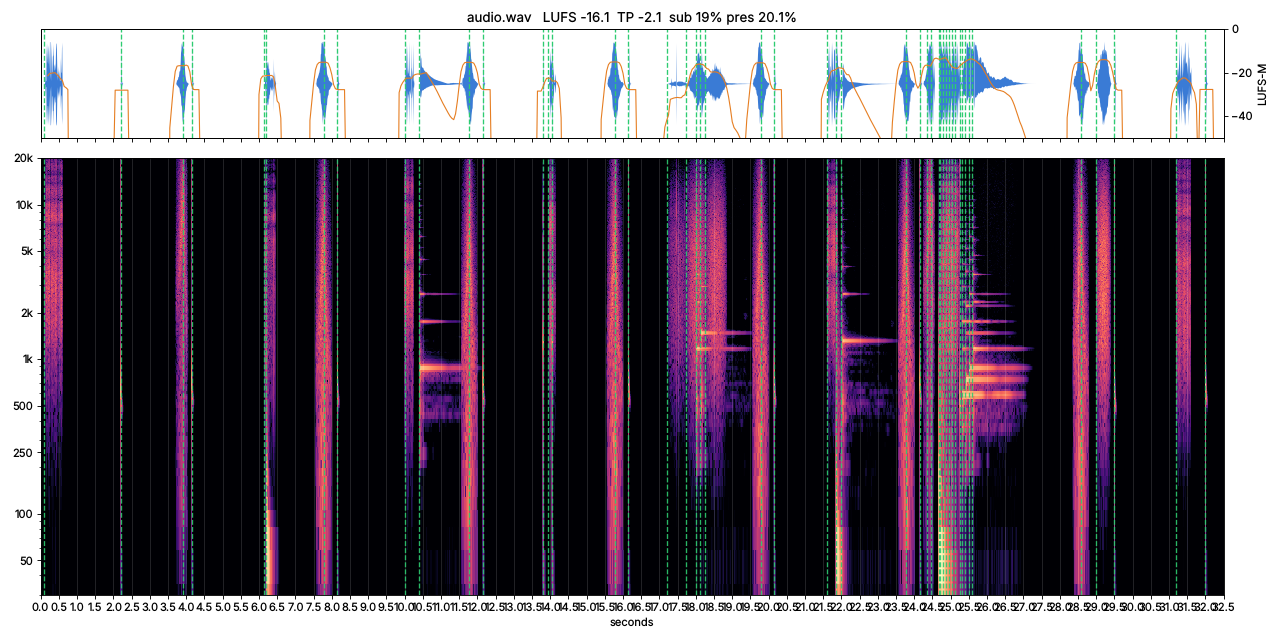
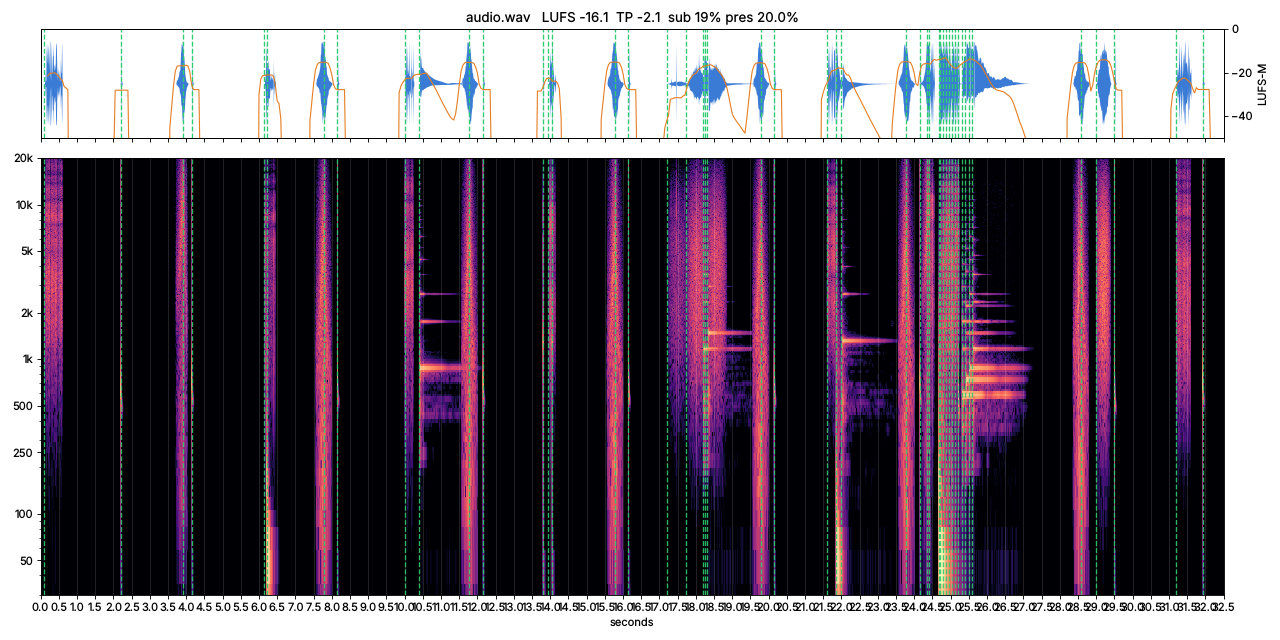
Where your dog sleeps: rendered, reviewed, revised once (v2 delivered)
Reviewer v1 scores: style 7, concept 6, motion 5, design 6, finish 7, sound 6, technical 7.
v2 applies all six high fixes: safe zones, hero head-pop mask, opaque pop-outs
instead of ghost fades, a bigger hero beat (push-in, crouch, impact frames),
caption reading pace, and a picture event for the 6.2 thump.
v2: 32.5 s, 1080x1920, 24 fps, -16.1 LUFS, -2.1 dBTP.

Claude-Session: https://claude.ai/code/session_01TyScPHrqvU1DzKTx1jcmtf

diff --git a/films/2026-10-13-where-your-dog-sleeps/js/scene.js b/films/2026-10-13-where-your-dog-sleeps/js/scene.js
@@ -31,7 +31,8 @@ const setStep = (a, b, s) => { for (let f = Math.round(a * FPS); f < Math.min(NF
 setStep(4.0, 4.25, 1);                                  // punch-in
 for (const b of WHIPS) setStep(b - WH, b + WH, 1);      // whips
 setStep(24.4, 25.45, 1);                                // the dive and the pop-out
-setStep(21.6, 21.9, 1);                                 // the shuffle back
+setStep(21.6, 21.9, 1);
+setStep(6.1, 6.45, 1);                                  // the ear twitch and settle squash                                 // the shuffle back
 setStep(29.4, 31.2, 3);                                 // the question holds
 const FQ = new Int32Array(NF), ID = new Int32Array(NF);
 { let last = 0, id = 0; for (let f = 0; f < NF; f++) { if (f > 0 && (STEP[f] !== STEP[f - 1] || f - last >= STEP[f])) { last = f; id++; } FQ[f] = last; ID[f] = id; } }
@@ -48,26 +49,28 @@ export async function init(canvas, dpr) {
 const md = (s) => { let b = false; return s.split(' ').map((w) => { const st = w.startsWith('**'); if (st) b = true; const ww = w.replace(/\*\*/g, ''); const o = { w: ww, b }; if (w.endsWith('**') || (st && w.slice(2).includes('**'))) b = false; return o; }); };
 const CAPS = [
   [2.2, 4.0, 'Six spots. The best is **last.**'],
-  [4.2, 6.1, 'It can mean you\'re **family.**'],
-  [6.1, 7.9, 'Puppies pile up for **warmth and safety.**'],
+  [4.2, 5.8, 'It can mean you\'re **family.**'],
+  [5.8, 7.9, 'Puppies pile up for **warmth and safety.**'],
   [8.2, 10.1, 'Close to you...'],
   [10.1, 11.9, '...but **watching the room.**'],
   [12.2, 14.1, 'Often a dog on **guard duty.**'],
   [14.1, 15.9, 'They see themselves as your **protector.**'],
   [16.2, 18.1, 'Your **scent** comforts them...'],
   [18.1, 19.9, '...especially when **you\'re out.**'],
-  [20.2, 22.1, 'It can mean **"I\'ve got your back."**'],
-  [22.1, 23.9, 'It\'s a sign of **deep trust.**'],
+  [20.15, 22.2, 'It can mean **"I\'ve got your back."**'],
+  [22.2, 23.9, 'It\'s a sign of **deep trust.**'],
   [24.2, 25.9, 'And the sweetest spot...'],
   [25.9, 28.7, 'Against you? You\'re their **safe place.**'],
 ].map(([a, b, s]) => [a, b, md(s)]);
-const CAP_Y = 1440;
+const CAP_Y = 1440, CAP_X = 500; // x 500: cards stay left of the platform's right-hand buttons (x > 940)
 const popK = (t, t0, d = 0.35) => (t < t0 ? 0 : G.K(t, [[t0, 0], [t0 + d * 0.6, 1.14, 'out3'], [t0 + d, 1.0]]));
+// opaque pop-out on 1s (no half-transparent ghost): 1 → 1.06 → 0 over the last 3 frames before t1
+const popOut = (t, t1) => (t < t1 - 0.125 ? 1 : G.K(t, [[t1 - 0.125, 1], [t1 - 0.08, 1.06], [t1, 0]]));
 
 // the hook headline (frame 0 = the cover; it returns at the end so the loop is seamless)
-function headline(c, a, dy, v) {
-  if (a <= 0) return;
-  c.save(); c.globalAlpha = a; c.textAlign = 'center'; c.textBaseline = 'alphabetic';
+function headline(c, a, dy, v, sc = 1) {
+  if (a <= 0 || sc <= 0) return;
+  c.save(); c.globalAlpha = a; c.translate(540, 500); c.scale(sc, sc); c.translate(-540, -500); c.textAlign = 'center'; c.textBaseline = 'alphabetic';
   let size = 92;
   c.font = `600 ${size}px "Fraunces"`;
   const w1 = c.measureText('Where your dog sleeps').width;
@@ -83,39 +86,39 @@ function headline(c, a, dy, v) {
   inkStroke(c, [[x0 + wA, 450 + size * 1.1 + dy + 22], [x0 + wA + wB * 0.5, 450 + size * 1.1 + dy + 28], [x0 + wA + wB, 450 + size * 1.1 + dy + 20]], { seed: 31 + v, w: 7, t0: 6, t1: 10, min: 0.3, amp: 1, heavy: 0, color: PAL.orange });
   c.restore();
 }
-function headlineState(t) { // alpha, dy
-  if (t < 2.2) return [1, 0];
-  if (t < 2.45) { const u = E.in2(inv(2.2, 2.45, t)); return [1 - u, -40 * u]; }
-  if (t >= 32.0) { const u = E.out3(inv(32.0, 32.3, t)); return [u, 30 * (1 - u)]; }
-  return [0, 0];
+function headlineState(t) { // alpha, dy, scale: always opaque, it pops out and back in
+  if (t < 2.0) return [1, 0, 1];
+  if (t < 2.2) { const u = inv(2.0, 2.2, t); return [1, -30 * u, G.K(t, [[2.0, 1], [2.07, 1.05], [2.2, 0]])]; }
+  if (t >= 31.92) return [1, 0, G.K(t, [[31.92, 0.82], [32.02, 1.04, 'out3'], [32.1, 1]])];
+  return [0, 0, 0];
 }
 function questionCard(c, t, v) {
-  if (t < 29.0 || t >= 31.9) return;
-  const sIn = G.K(t, [[29.0, 0.82], [29.12, 1.05, 'out3'], [29.22, 1]]), out = clamp((31.9 - t) / 0.2);
-  c.save(); c.globalAlpha = out; c.translate(540, 520); c.scale(sIn * (1 - 0.1 * (1 - out)), sIn * (1 - 0.1 * (1 - out))); c.translate(-540, -520);
-  const P = G.resample(CA.roundRect(110, 360, 860, 330, 36), 6, true);
+  if (t < 29.0 || t >= 31.92) return;
+  const sIn = G.K(t, [[29.0, 0.82], [29.12, 1.05, 'out3'], [29.22, 1]]) * popOut(t, 31.92), out = 1, QX = 500;
+  c.save(); c.translate(QX, 520); c.scale(sIn, sIn); c.translate(-QX, -520);
+  const P = G.resample(CA.roundRect(90, 360, 820, 330, 36), 6, true);
   fillShape(c, P.map(([a, b]) => [a + 8, b + 10]), 'rgba(27,47,82,0.3)', { seed: 40 + v, amp: 1.4 });
   fillShape(c, P, PAL.hi, { seed: 41 + v, amp: 1.6 }); inkLoop(c, P, { seed: 42 + v, w: 4, amp: 1.6 });
   c.textAlign = 'left'; c.textBaseline = 'alphabetic';
-  c.font = '600 80px "Fraunces"'; const a1 = 'Where does ', a3 = ' sleep?';
-  const w1 = c.measureText(a1).width, w3 = c.measureText(a3).width; c.font = 'italic 600 80px "Fraunces"'; const w2 = c.measureText('yours').width;
-  const x0 = 540 - (w1 + w2 + w3) / 2;
-  c.font = '600 80px "Fraunces"'; c.fillStyle = PAL.navy; c.fillText(a1, x0, 520); c.fillText(a3, x0 + w1 + w2, 520);
-  c.font = 'italic 600 80px "Fraunces"'; c.fillStyle = PAL.orange; c.fillText('yours', x0 + w1, 520);
+  c.font = '600 72px "Fraunces"'; const a1 = 'Where does ', a3 = ' sleep?';
+  const w1 = c.measureText(a1).width, w3 = c.measureText(a3).width; c.font = 'italic 600 72px "Fraunces"'; const w2 = c.measureText('yours').width;
+  const x0 = QX - (w1 + w2 + w3) / 2;
+  c.font = '600 72px "Fraunces"'; c.fillStyle = PAL.navy; c.fillText(a1, x0, 520); c.fillText(a3, x0 + w1 + w2, 520);
+  c.font = 'italic 600 72px "Fraunces"'; c.fillStyle = PAL.orange; c.fillText('yours', x0 + w1, 520);
   const u = clamp((t - 29.5) / 0.25);
-  if (u > 0) { c.globalAlpha = out * u; c.font = '600 50px "Inter"'; c.fillStyle = PAL.navy; c.textAlign = 'center'; c.fillText('Tell us below.', 540, 615 + 10 * (1 - u)); }
+  if (u > 0) { c.globalAlpha = out * u; c.font = '600 50px "Inter"'; c.fillStyle = PAL.navy; c.textAlign = 'center'; c.fillText('Tell us below.', QX, 615 + 10 * (1 - u)); }
   c.restore();
 }
 function overlays(c, t, v) {
-  CA.pill(c, 'DOG DECODED', 540, 214, { size: 28, fill: PAL.navy, color: PAL.hi, edge: PAL.navyDeep, alpha: 0.92, seed: 11, shadow: false }, v);
+  CA.pill(c, 'DOG DECODED', 540, 252, { size: 28, fill: PAL.navy, color: PAL.hi, edge: PAL.navyDeep, alpha: 0.92, seed: 11, shadow: false }, v);
   for (const [a, b, txt] of SP) {
     const t0 = a + 0.15, t1 = b - WH - 0.02;
     if (t < t0 || t >= t1) continue;
-    CA.pill(c, txt, 540, 320, { size: 40, fill: PAL.orange, color: PAL.hi, scale: popK(t, t0), alpha: clamp((t1 - t) / 0.12), seed: 21, rot: -0.02 }, v);
+    CA.pill(c, txt, 540, 330, { size: 40, fill: PAL.orange, color: PAL.hi, scale: popK(t, t0) * popOut(t, t1), seed: 21, rot: -0.02 }, v);
   }
-  const [ha, hdy] = headlineState(t); headline(c, ha, hdy, v);
+  const [ha, hdy, hsc] = headlineState(t); headline(c, ha, hdy, v, hsc);
   questionCard(c, t, v);
-  CAPS.forEach(([a, b, words], i) => CA.caption(c, words, 540, CAP_Y, t, a, b, v, { cont: i > 0 && CAPS[i - 1][1] === a, hold: i < CAPS.length - 1 && CAPS[i + 1][0] === b }));
+  CAPS.forEach(([a, b, words], i) => CA.caption(c, words, CAP_X, CAP_Y, t, a, b, v, { cont: i > 0 && CAPS[i - 1][1] === a, hold: i < CAPS.length - 1 && CAPS[i + 1][0] === b }));
 }
 
 // ------------------------------------------------------------------ room props (a few lines each)
@@ -227,11 +230,17 @@ function shotBed(c, t, f, D) {
   bed(c, v, tq);
   // breathing, a tail thump at 6.1, a yawn at the end (31.2–31.9)
   const yawn = sstep(31.2, 31.45, tq) * (1 - sstep(31.7, 31.95, tq));
-  const thump = tq >= 6.1 && tq < 6.6 ? Math.sin(Math.PI * inv(6.1, 6.6, tq)) : 0;
-  const P = pose('curl', { tail: { a0: 170 + 12 * thump, curl: -16 }, head: { pitch: -20 + 26 * yawn, yaw: -90 + 20 * yawn, roll: 0 },
-    face: { eyes: yawn > 0.3 ? 'squint' : 'closed', mouth: yawn > 0.4 ? 'open' : 'closed', brow: 0 }, ears: { swing: 8 * yawn } });
+  const twitch = tq >= 6.1 && tq < 6.45 ? Math.sin(Math.PI * inv(6.1, 6.45, tq)) : 0, F_SQ = Math.round(6.2 * FPS);
+  const P = pose('curl', { tail: { a0: 170, curl: -16 }, head: { pitch: -20 + 26 * yawn, yaw: -90 + 20 * yawn, roll: 0 },
+    face: { eyes: yawn > 0.3 ? 'squint' : 'closed', mouth: yawn > 0.4 ? 'open' : 'closed', brow: 0 }, ears: { swing: 8 * yawn - 14 * twitch } });
   const br = 1 + 0.012 * Math.sin(tq * 2.6);
+  const sq = D.fq === F_SQ ? 1.05 : 1; // she settles: a 1-frame squash on the thump
+  c.save(); c.translate(CURL.x, CURL.y); c.scale(sq, 1 / sq); c.translate(-CURL.x, -CURL.y);
   drawMiya(c, P, { ...CURL, s: CURL.s * br, v, seed: 3000, accent: ACC });
+  c.restore();
+  if (tq >= 6.2 && tq < 6.7) { const u = inv(6.2, 6.7, tq); // a small dust puff off the duvet where she settles
+    for (let k = 0; k < 3; k++) { const P2 = circlePts(CURL.x + 150 + k * 26 + 40 * u, CURL.y - 30 - k * 14 - 26 * u, (15 - 3 * k) * (1 - 0.6 * u), 14);
+      c.save(); c.globalAlpha = 1 - u; fillShape(c, P2, PAL.hi, { seed: 150 + k, amp: 1 }); inkLoop(c, P2, { seed: 153 + k + v, w: 3, amp: 1 }); c.restore(); } }
   if (tq < 31.0 || tq > 32.0) zzz(c, 800, 830, tq, tq >= 4 && tq < 29 ? 4.2 : 99, v);
   c.restore();
 }
@@ -319,46 +328,55 @@ const TUCK = { x: 470, y: 1012, s: 1.4, view: 10 };
 function shotTuck(c, t, f, D) {
   const v = bv(D), tq = D.fq / FPS;
   drawPaper(c, W, H);
-  const z = lerp(1, 1.42, E.io2(inv(25.5, 28.8, tq))), shake = tq >= DIVE + 0.08 && tq < DIVE + 0.5 ? 10 * Math.exp(-(tq - DIVE - 0.08) / 0.12) : 0;
-  c.save(); cam(c, lerp(540, 650, E.io2(inv(25.5, 28.8, tq))) + (hs(f, 1) - 0.5) * 2 * shake, lerp(960, 930, E.io2(inv(25.5, 28.8, tq))) + (hs(f, 2) - 0.5) * 2 * shake, z);
+  const z = lerp(1.15, 1.55, E.io2(inv(24.2, 28.8, tq))), shake = tq >= DIVE + 0.08 && tq < DIVE + 0.5 ? 10 * Math.exp(-(tq - DIVE - 0.08) / 0.12) : 0;
+  c.save(); cam(c, lerp(640, 650, E.io2(inv(24.2, 28.8, tq))) + (hs(f, 1) - 0.5) * 2 * shake, lerp(960, 930, E.io2(inv(25.5, 28.8, tq))) + (hs(f, 2) - 0.5) * 2 * shake, z);
   windowNight(c, 420, 560, 220, 270, v, tq);
   floor(c, v);
   const fdive = Math.round(DIVE * FPS);
   // the hump under the duvet: lands at 24.67, travels to her spot by 25.2, then stays as her body
   const land = (fdive + 2) / FPS, under = tq >= land && tq < 25.25;
-  const bump = under ? { x: lerp(820, 470, E.io2(inv(land, 25.2, tq))), h: 60 * (tq < land + 0.08 ? 1.3 : 1) + 8 * Math.sin(tq * 30) } : tq >= 25.2 ? { x: 450, h: 34 + 3 * Math.sin(tq * 2.6) } : null;
-  bed(c, v, tq, { person: true, bump });
+  const bump = under ? { x: lerp(740, 470, E.io2(inv(land, 25.2, tq))), h: 60 * (tq < land + 0.08 ? 1.3 : 1) + 8 * Math.sin(tq * 30) } : tq >= 25.2 ? { x: 450, h: 34 + 3 * Math.sin(tq * 2.6) } : null;
+  const topB = bed(c, v, tq, { person: true, bump });
   if (tq < DIVE) { // standing on the bed by your feet, then a crouch (anticipation)
-    const cr = E.io2(inv(24.3, DIVE, tq));
-    const P = pose('stand', { head: { pitch: -10 - 20 * cr, yaw: 10, roll: 0 }, face: { eyes: 'open', mouth: 'smile', brow: 0.4 }, tail: { a0: 100 + 30 * Math.sin(tq * 12), curl: -30 } });
-    c.save(); c.translate(880, 975); c.scale(1 + 0.06 * cr, 1 - 0.1 * cr); c.translate(-880, -975);
-    drawMiya(c, P, { x: 880, y: 975, s: 1.25, view: 20, mirror: true, v, seed: 3500, accent: ACC });
+    const cr = E.io2(inv(24.3, DIVE - 1 / FPS, tq)), rel = f === fdive - 1; // deep crouch, then a 1-frame stretch as she springs
+    const P = pose('stand', { head: { pitch: -10 - 35 * cr, yaw: 10, roll: 0 }, face: { eyes: 'open', mouth: 'smile', brow: 0.4 }, tail: { a0: 100 + 30 * Math.sin(tq * 12), curl: -30 } });
+    c.save(); c.translate(790, 975); if (rel) c.scale(0.9, 1.15); else c.scale(1 + 0.12 * cr, 1 - 0.22 * cr); c.translate(-790, -975);
+    drawMiya(c, P, { x: 790, y: 975, s: 1.25, view: 20, mirror: true, v, seed: 3500, accent: ACC });
     c.restore();
   } else if (f < fdive + 2) { // the dive, on 1s: one smear frame stretched 2.6× along the path, then she's gone
     const dir = Math.atan2(40, -120), k = f - fdive;
-    c.save(); c.translate(lerp(860, 780, k), lerp(900, 960, k)); c.rotate(dir); c.scale(k === 0 ? 2.6 : 1.8, 0.6); c.rotate(-dir); c.translate(-860, -900);
-    drawMiya(c, pose('stand', { face: { eyes: 'closed', mouth: 'closed', brow: 0 } }), { x: 860, y: 960, s: 1.15, view: 0, mirror: true, v, seed: 3510, accent: ACC, shadow: false });
+    c.save(); c.translate(lerp(770, 690, k), lerp(900, 960, k)); c.rotate(dir); c.scale(k === 0 ? 2.6 : 1.8, 0.6); c.rotate(-dir); c.translate(-770, -900);
+    drawMiya(c, pose('stand', { face: { eyes: 'closed', mouth: 'closed', brow: 0 } }), { x: 770, y: 960, s: 1.15, view: 0, mirror: true, v, seed: 3510, accent: ACC, shadow: false });
     c.restore();
-    for (let i = 0; i < 4; i++) inkStroke(c, [[930 + i * 10, 860 - i * 22], [1010 + i * 16, 830 - i * 30]], { seed: 520 + i + f, w: 4, t0: 20, t1: 4, min: 0.1, amp: 0.8, heavy: 0 });
+    for (let i = 0; i < 4; i++) inkStroke(c, [[840 + i * 10, 860 - i * 22], [920 + i * 16, 830 - i * 30]], { seed: 520 + i + f, w: 4, t0: 20, t1: 4, min: 0.1, amp: 0.8, heavy: 0 });
   }
   if (tq >= land && tq < land + 0.6) { // the duvet flops: dust puffs and twinkles burst off it
     const u = inv(land, land + 0.6, tq);
     for (let k = 0; k < 6; k++) {
-      const a = -Math.PI + k * (Math.PI / 5), d = 60 + 140 * E.out2(u), P2 = circlePts(820 + Math.cos(a) * d, 920 + Math.sin(a) * d * 0.6 - 30 * u, (22 - 2 * k % 3 * 3) * (1 - 0.7 * u), 14);
+      const a = -Math.PI + k * (Math.PI / 5), d = 60 + 140 * E.out2(u), P2 = circlePts(740 + Math.cos(a) * d, 920 + Math.sin(a) * d * 0.6 - 30 * u, (22 - 2 * k % 3 * 3) * (1 - 0.7 * u), 14);
       c.save(); c.globalAlpha = 1 - u; fillShape(c, P2, PAL.hi, { seed: 530 + k, amp: 1 }); inkLoop(c, P2, { seed: 536 + k + v, w: 3.2, amp: 1 }); c.restore();
     }
-    if (u < 0.3) FX.drawStarburst(c, 820, 900, 120 * (1 - u), 545 + f, 0.4, [PAL.hi, PAL.hi, PAL.orange], { n: 10, w: 5 });
+    if (u < 0.3) FX.drawStarburst(c, 740, 900, 120 * (1 - u), 545 + f, 0.4, [PAL.hi, PAL.hi, PAL.orange], { n: 10, w: 5 });
   }
   if (tq >= 25.2) { // her head pops out at the duvet edge, tucked against your legs; the duvet covers her body
-    const pop = E.outBack(clamp((tq - 25.2) / 0.25), 1.8);
+    const pop = E.outBack(clamp((tq - 25.2) / 0.25), 2.6), CX = 640, CY = 975; // pivot: her chin at the duvet edge
     const P = pose('sleep', { head: { pitch: -6, yaw: 18, roll: -6 }, face: { eyes: tq >= 25.9 ? 'closed' : 'happy', mouth: 'smile', brow: 0.3 }, ears: { swing: 4 * Math.sin(tq * 2) } });
-    c.save(); c.beginPath(); c.rect(588, 0, 2000, 2000); c.clip(); // only her head and paws show past the duvet's edge
-    c.translate(TUCK.x + 160, TUCK.y); c.scale(pop, pop); c.translate(-TUCK.x - 160, -TUCK.y);
+    c.save(); c.translate(CX, CY); c.scale(pop, pop); c.translate(-CX, -CY);
     drawMiya(c, P, { ...TUCK, s: TUCK.s * (1 + 0.01 * Math.sin(tq * 2.6)), v, seed: 3520, accent: ACC, shadow: false });
+    c.restore();
+    // the duvet over her body: the same bed redrawn left of her neck, so its own top line hides her (no straight mask edge)
+    c.save(); c.beginPath(); c.rect(-2000, -2000, 2588, 6000); c.clip();
+    bed(c, v, tq, { person: true, bump });
     c.restore();
     // the duvet's folded edge over her neck
     const flap = R(spline([[548, 915], [590, 890], [618, 906], [624, 955], [604, 996], [560, 992]], true, 4));
+    c.save(); c.translate(CX, CY); c.scale(Math.max(pop, 0.6), Math.max(pop, 0.6)); c.translate(-CX, -CY);
     CA.celMass(c, flap, LIL, LILS, 560, v, { w: 5, sh: 8 });
+    c.restore();
+    if (tq < 25.7) { const u = inv(25.2, 25.7, tq); // a puff and twinkles as her head pops out
+      for (let k = 0; k < 4; k++) { const a = -0.9 + k * 0.45, d = 120 + 80 * E.out2(u), P2 = circlePts(CX + 40 + Math.cos(a) * d, CY - 10 + Math.sin(a) * d * 0.6, (16 - 2 * k) * (1 - 0.6 * u), 14);
+        c.save(); c.globalAlpha = 1 - u; fillShape(c, P2, PAL.hi, { seed: 580 + k, amp: 1 }); inkLoop(c, P2, { seed: 584 + k + v, w: 3, amp: 1 }); c.restore(); }
+      FX.drawTwinkle(c, CX + 70, CY - 150, 18 * Math.sin(Math.PI * u), 590 + v, { fill: PAL.orange }); FX.drawTwinkle(c, CX - 80, CY - 120, 12 * Math.sin(Math.PI * u), 591 + v, { fill: PAL.hi }); }
     zzz(c, 760, 820, tq, 26.0, v, PAL.navyLight);
     if (tq >= 26.0) { FX.drawTwinkle(c, 760, 880, 13 + 4 * Math.sin(tq * 4), 570 + v, { fill: PAL.hi }); FX.drawTwinkle(c, 520, 820, 10 + 3 * Math.sin(tq * 3 + 1), 571 + v, { fill: PAL.hi }); }
   }
@@ -396,6 +414,11 @@ export function render(t) {
     c.save(); c.setTransform(1, 0, 0, 1, 0, 0); c.translate((W / 2 + dx) * DPR, 0); c.scale(sx, 1); c.drawImage(L.canvas, -W / 2 * DPR, 0); c.restore();
     for (let i = 0; i < 9; i++) { const y = 360 + i * 120 + hs(i, f) * 40, x0 = hs(i, f, 2) * 500; inkStroke(c, [[x0, y], [x0 + 420 + 200 * hs(i, 3), y + 6]], { seed: 900 + i + f, w: 5, t0: 30, t1: 30, min: 0.1, amp: 0.6, heavy: 0 }); }
   } else shotAt(t1)(c, t1, f, D);
+  const fImp = Math.round(DIVE * FPS) + 2;
+  if (f === fImp || f === fImp + 1) { // impact: flat lilac + a white star, on 1s; nothing else on it
+    FX.impactFrame(c, W, H, 560, 920, f === fImp ? LIL : PAL.navy, f === fImp ? PAL.hi : LIL, 600 + f, { lines: f === fImp, R: 560 });
+    drawTooth(c, W, H, v, DPR, 0.13); return;
+  }
   overlays(c, t1, v);
   drawTooth(c, W, H, v, DPR, 0.13);
 }

diff --git a/films/2026-10-13-where-your-dog-sleeps/js/cast.js b/films/2026-10-13-where-your-dog-sleeps/js/cast.js
@@ -61,7 +61,7 @@ export function pill(c, text, x, y, o, v) {
 // o.hold: the next caption starts where this one ends, so the card doesn't pop out.
 export function caption(c, words, x, y, t, tIn, tOut, v, o = {}) {
   if (t < tIn || t >= tOut) return;
-  const size = 50, lh = 70, maxW = 860;
+  const size = 50, lh = 70, maxW = 740;
   c.save(); c.font = `600 ${size}px "Inter"`;
   const sp = c.measureText(' ').width;
   const lines = [[]]; let lw = 0;
@@ -72,10 +72,11 @@ export function caption(c, words, x, y, t, tIn, tOut, v, o = {}) {
     lines[lines.length - 1].push({ ...wd, width: w }); lw += w + sp;
   }
   c.restore();
-  const boxW = Math.min(940, Math.max(...lines.map((L) => L.reduce((a, q) => a + q.width + sp, -sp))) + 70), boxH = lines.length * lh + 46;
+  const boxW = Math.min(810, Math.max(...lines.map((L) => L.reduce((a, q) => a + q.width + sp, -sp))) + 70), boxH = lines.length * lh + 46;
   const sIn = o.cont ? 1 : K(t, [[tIn, 0.82], [tIn + 0.1, 1.04, 'out3'], [tIn + 0.18, 1]]);
-  const outU = o.hold ? 0 : clamp((t - (tOut - 0.12)) / 0.12);
-  const sc = sIn * (1 - 0.12 * outU), fade = 1 - outU;
+  // out: an opaque pop-out on 1s (1 → 1.06 → 0 over 3 frames), never a half-transparent ghost card
+  const sOut = o.hold || t < tOut - 0.125 ? 1 : K(t, [[tOut - 0.125, 1], [tOut - 0.08, 1.06], [tOut, 0]]);
+  const sc = sIn * sOut, fade = 1;
   c.save(); c.globalAlpha = fade; c.translate(x, y); c.scale(sc, sc); c.translate(-x, -y);
   const P = G.resample(roundRect(x - boxW / 2, y - boxH / 2, boxW, boxH, 28), 6, true);
   fillShape(c, P.map(([a, b]) => [a + 6, b + 8]), 'rgba(27,47,82,0.3)', { seed: 300 + v, amp: 1.2 });

diff --git a/films/2026-10-13-where-your-dog-sleeps/audio.py b/films/2026-10-13-where-your-dog-sleeps/audio.py
@@ -40,7 +40,7 @@ S(sfx.whoosh(0.35, 'swish', peak=0.6), at=3.92, gain=-9)
 for b in (8.0, 12.0, 16.0, 20.0, 24.0, 28.8):
     S(sfx.whoosh(0.45, 'air', peak=0.5), at=b - 0.22, gain=-7)
 # 1 on your bed: the tail thump
-S(sfx.impact('soft', size=0.25), at=6.2, gain=-14)
+S(sfx.impact('soft', size=0.25), at=6.208, gain=-14)   # the settle squash (frame 149)
 S(sfx.paper('rustle', 0.3, seed=3), at=6.15, gain=-15)
 # 2 foot of the bed: she turns to watch the room
 S(sfx.paper('rustle', 0.25, seed=5), at=10.0, gain=-14)
@@ -52,26 +52,26 @@ S(sfx.paper('rustle', 0.2, seed=7), at=13.95, gain=-14)
 # 4 on your clothes: scent drifting up, a contented smile
 for k in range(3):
     S(sfx.paper('slide', 0.6, seed=9 + k), at=17.2 + k * 0.53, gain=-19)
-harp('D6', 18.0, -15); harp('F#6', 18.12, -16)
+harp('D6', 18.2, -15); harp('F#6', 18.32, -16)
 # 5 back against you: the shuffle, the squish, two twinkles
 S(sfx.paper('rustle', 0.3, seed=11), at=21.6, gain=-11)
 S(sfx.impact('soft', size=0.3), at=21.85, gain=-12)
 harp('E6', 22.0, -15)
 # 6 tucked against you (hero): the crouch, the dive, the duvet flop, travelling under, the pop out
 S(sfx.paper('rustle', 0.2, seed=13), at=24.35, gain=-14)
-S(sfx.whoosh(0.3, 'swish', peak=0.7), at=24.45, gain=-6)
+S(sfx.whoosh(0.3, 'swish', peak=0.7), at=24.40, gain=-6)
 S(sfx.impact('soft', size=0.7), at=24.67, gain=-4)
 S(sfx.paper('crumple', 0.5, seed=14), at=24.7, gain=-10)
 for k in range(5):
     S(sfx.paper('rustle', 0.12, seed=20 + k), at=24.8 + k * 0.08, gain=-13)
-S(sfx.pop('soft', 0.9), at=25.25, gain=-8)
+S(sfx.pop('soft', 0.9), at=25.21, gain=-8)
 for j, x in enumerate(['D5', 'F#5', 'A5', 'D6']):
     harp(x, 25.3 + 0.1 * j, -12)
 # end: the question card, the yawn, the headline back (loops to frame 0)
 S(sfx.paper('slide', 0.4), at=29.0, gain=-11)
 S(sfx.pop('soft', 1.0), at=29.5, gain=-14)
 S(sfx.paper('rustle', 0.4, seed=30), at=31.2, gain=-13)
-S(sfx.pop('soft', 1.1), at=32.0, gain=-15)
+S(sfx.pop('soft', 1.1), at=31.92, gain=-15)
 
 if __name__ == '__main__':
     os.makedirs(os.path.join(HERE, 'out'), exist_ok=True)

diff --git a/films/2026-10-13-where-your-dog-sleeps/PRODUCTION.md b/films/2026-10-13-where-your-dog-sleeps/PRODUCTION.md
@@ -6,7 +6,12 @@ Hook formula: "Where your dog [sleeps] says a lot about you." Length 32.5 s, 108
 - [x] Gate 1: idea picked by owner (2026-10-13, ★1 D1, six spots)
 - [x] Gate 2: script: approved by owner ("approved", 2026-10-13 night, this version)
 - [x] Gate 3: key frames for the whole film (39 stills) → `review/2026-10-13-where-your-dog-sleeps-keyframes-{a,b,c}.png`: approved by owner ("approved", 2026-10-13 night, this version)
-- [ ] Gate 4: rendered → reviewed (rubric) → revised once → shown (08:28 run)
+- [x] Gate 4: rendered → reviewed (rubric) → revised once → shown (v2, 2026-10-14 morning run)
+  - v1 spec: 32.5 s, 780 frames, 1080×1920, 24 fps, H.264 + AAC 48 kHz, −16.1 LUFS, −2.0 dBTP (mp4), no black frames, all fonts loaded (Fraunces, Inter, Oswald; no fallbacks).
+  - v1 rubric scores (separate reviewer): style 7 · concept 6 · motion 5 · design 6 · finish 7 · sound 6 · technical 7. No critical issues.
+  - Revision 1 (v2), all six high fixes: H1 safe zones (series pill y 252, spot pill y 330, caption cards narrower and centred at x 500, question card x 90–910 at 72 px, hero shot framed so the standing Miya clears the right-hand buttons); H2 hero head pop: no straight mask edge (the duvet is redrawn over her body), the flap scales with her, pivot on her chin; H3 no ghost text: captions, pills, headline and question card pop out opaque on 1s, the headline clears before the first caption, the cover holds about 0.6 s before the loop; H4 bigger hero: push-in from the crouch (1.15 → 1.55), deeper crouch, a 1-frame stretch as she springs, a 2-frame impact frame on the duvet flop (frames 592–593, no text), more overshoot on the head pop with a puff and twinkles; H5 caption retimes at 4.2–7.9 and 20.15–23.9 (≤ 3.5 words/s, copy unchanged); H6 the 6.2 thump now lands on an ear twitch, a 1-frame settle squash and a puff. Sound sync: smile harp 18.2, dive whoosh 24.40, head-pop 25.21, loop pop 31.92.
+  - Not done: N1 (zzz over the navy window), N3 (second knock has no picture), N5 (punch-in at 4.0 without smear), N6 (whip direction variety), N7 (overhead spot 5 reads abstractly), N8 (curly quotes), N9 (empty floor), and the two approved-content notes N10 (6/6 pill names the answer before the dive) and N11 ("They see themselves as your protector." / "Your scent comforts them" stated as fact): owner's call.
+  - v2 spec: 32.5 s, 780 frames, 1080×1920, 24 fps, −16.1 LUFS, −2.1 dBTP (master and viewing copy), no black frames. Master `out/where-your-dog-sleeps-v2.mp4` (61 MB, gitignored); viewing copy `review/where-your-dog-sleeps-v2.mp4` (13 MB, audio stream copied from the master so TP stays ≤ −2); stem `review/where-your-dog-sleeps-sfx-only.wav`.
 
 Pending / unapproved inputs in use: Miya's NEW poses `sleep` (chin on paws) and `curl` (donut), added to `characters/miya/miya.js`
 and the model sheet (`review/miya-model-sheet-new-poses.png`); no existing pose changed. "Back against you" and "under the

diff --git a/content/LOG.md b/content/LOG.md
@@ -5,5 +5,5 @@ it starts a film; the morning run fills in the result. Next up (2026-10-14 night
 
 | Date | Series | Idea | Film folder | Status | Hook formula | Length | Views | Avg watch % | Shares | Saves | Notes |
 |---|---|---|---|---|---|---|---|---|---|---|---|
-| 2026-10-13 | Dog Decoded | D1 Where your dog sleeps (six spots) | `films/2026-10-13-where-your-dog-sleeps` | key frames sent | "Where your dog [sleeps] says a lot." | 32.5 s | | | | | Owner's pick ★1. New Miya poses: sleep, curl. Loops to frame 0. |
+| 2026-10-13 | Dog Decoded | D1 Where your dog sleeps (six spots) | `films/2026-10-13-where-your-dog-sleeps` | delivered v2 | "Where your dog [sleeps] says a lot." | 32.5 s | | | | | Owner's pick ★1. New Miya poses: sleep, curl. Loops to frame 0. |
 | 2026-10-13 | Inside Your Dog | B1 Food Allergy | `films/2026-10-13-inside-your-dog-food-allergy` | delivered v3 | "Your dog isn't X. It's Y." | 58 s | | | | | Owner's brief. SFX only, captions at 3/4 height. |
